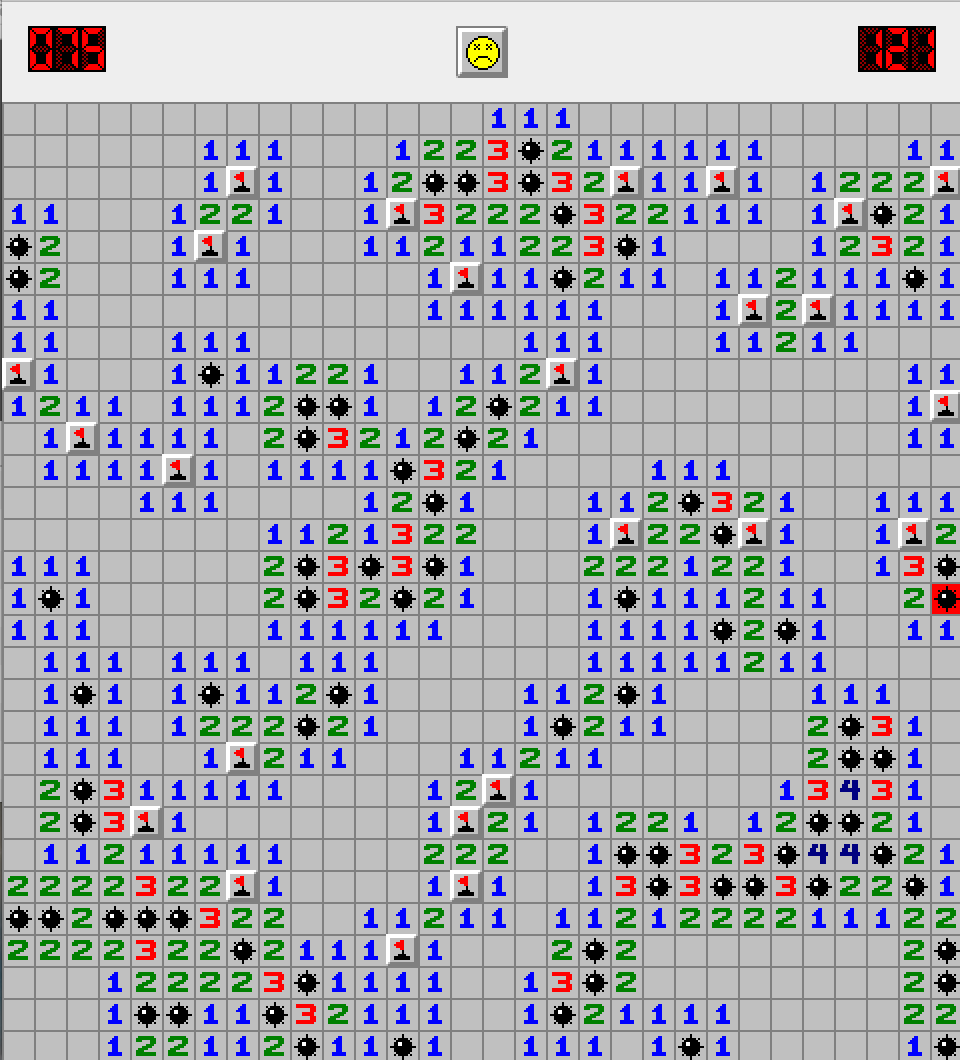
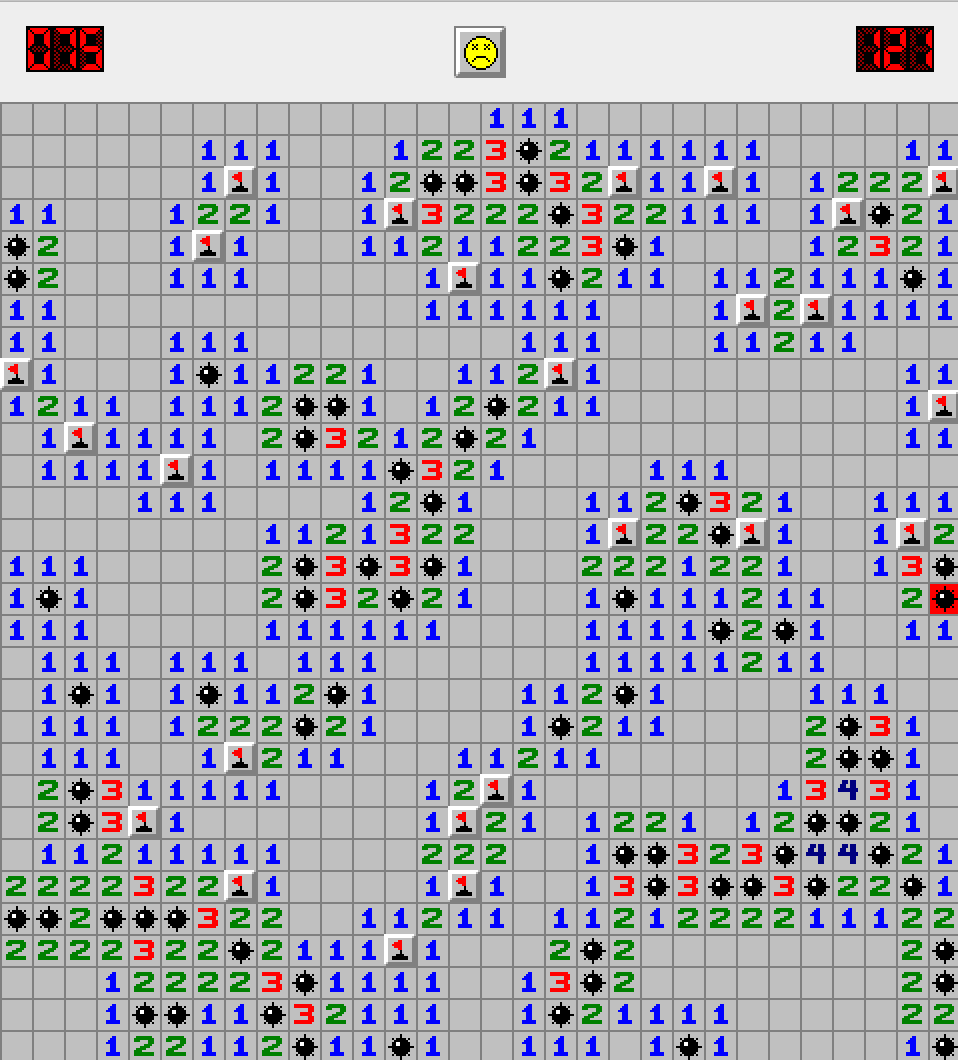
attempt to resize screenshot

diff --git a/README.md b/README.md
@@ -11,7 +11,7 @@ Class Structure
         - SpriteCropper: has hardcoded sprite positions on the sprite sheet
     - JFrame
 
-![alt tag](endgame.png)
+![alt tag =250x](endgame.png)
 
 Test Driven Development and JUnit
 -----------------------------------
